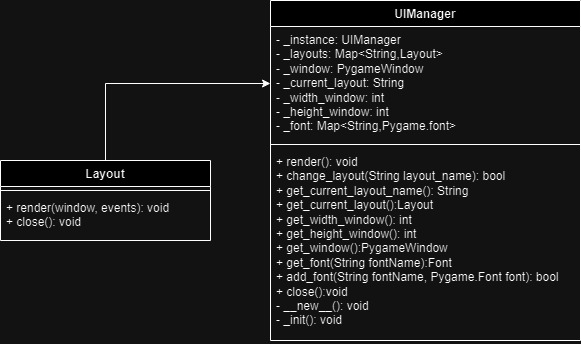
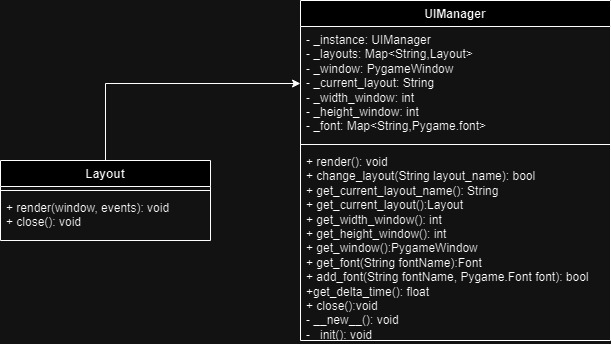
Add delta_time to UIManager

diff --git a/src/UIManager.py b/src/UIManager.py
@@ -2,6 +2,7 @@ from typing import Type
 
 import pygame
 
+from src.ClassicGameLayout import ClassicGameLayout
 from src.Layout import Layout
 
 
@@ -15,6 +16,8 @@ class UIManager:
     _height_window: int
     _font: dict[str, pygame.font.Font]
     _running: bool
+    _clock: pygame.time.Clock
+    _delta_time: float
 
     def __new__(cls, *args, **kwargs):
         if cls._instance is None:
@@ -30,15 +33,19 @@ class UIManager:
         self._window = pygame.display.set_mode((self._width_window, self._height_window))
         self._clock = pygame.time.Clock()
         self._running = True
-
+        self._clock = pygame.time.Clock()
         self._font = {}
-        self._layouts = {}
+        self._layouts = {
+            "Classic_Game_Layout": ClassicGameLayout(),
+        }
+        self.change_layout("Classic_Game_Layout")
 
     def render(self):
         """
         Run main loop of game
         """
         while self._running:
+            self._delta_time = self._clock.tick(60) / 1000.0
             events = pygame.event.get()
             for event in events:
                 if event.type == pygame.QUIT:
@@ -58,7 +65,7 @@ class UIManager:
         return False
 
     def get_current_layout_name(self) -> str:
-        return  self._current_layout
+        return self._current_layout
 
     def get_current_layout(self) -> Layout:
         return self._layouts.get(self._current_layout)
@@ -81,6 +88,9 @@ class UIManager:
         if font_name in self._font:
             return self._font[font_name]
         raise KeyError
+
+    def get_delta_time(self):
+        return self._delta_time
 
     def add_font(self, font_name: str, font: pygame.font.Font) -> bool:
         """

diff --git a/docs/UML/UIManager.md b/docs/UML/UIManager.md
@@ -19,6 +19,8 @@ get_font() - Zwraca szukany font, w przypadku nie znalezienia zwraca błąd
 
 add_font - dodaje Font do bazy fontów, jeżeli taki font istnieje zwraca false
 
+get_delta_time() - Zwraca czas pomiędzy klatkami
+
 close() - zamyka aplikacje,wywołuje close na aktualnym Layoucie, ustawia flagę isRunning na false. 
 
 __new__() - funkcja która sprawdza czy nie istnieje już obiekt tej klasy, jeżeli nie to tworzy obiekt.
